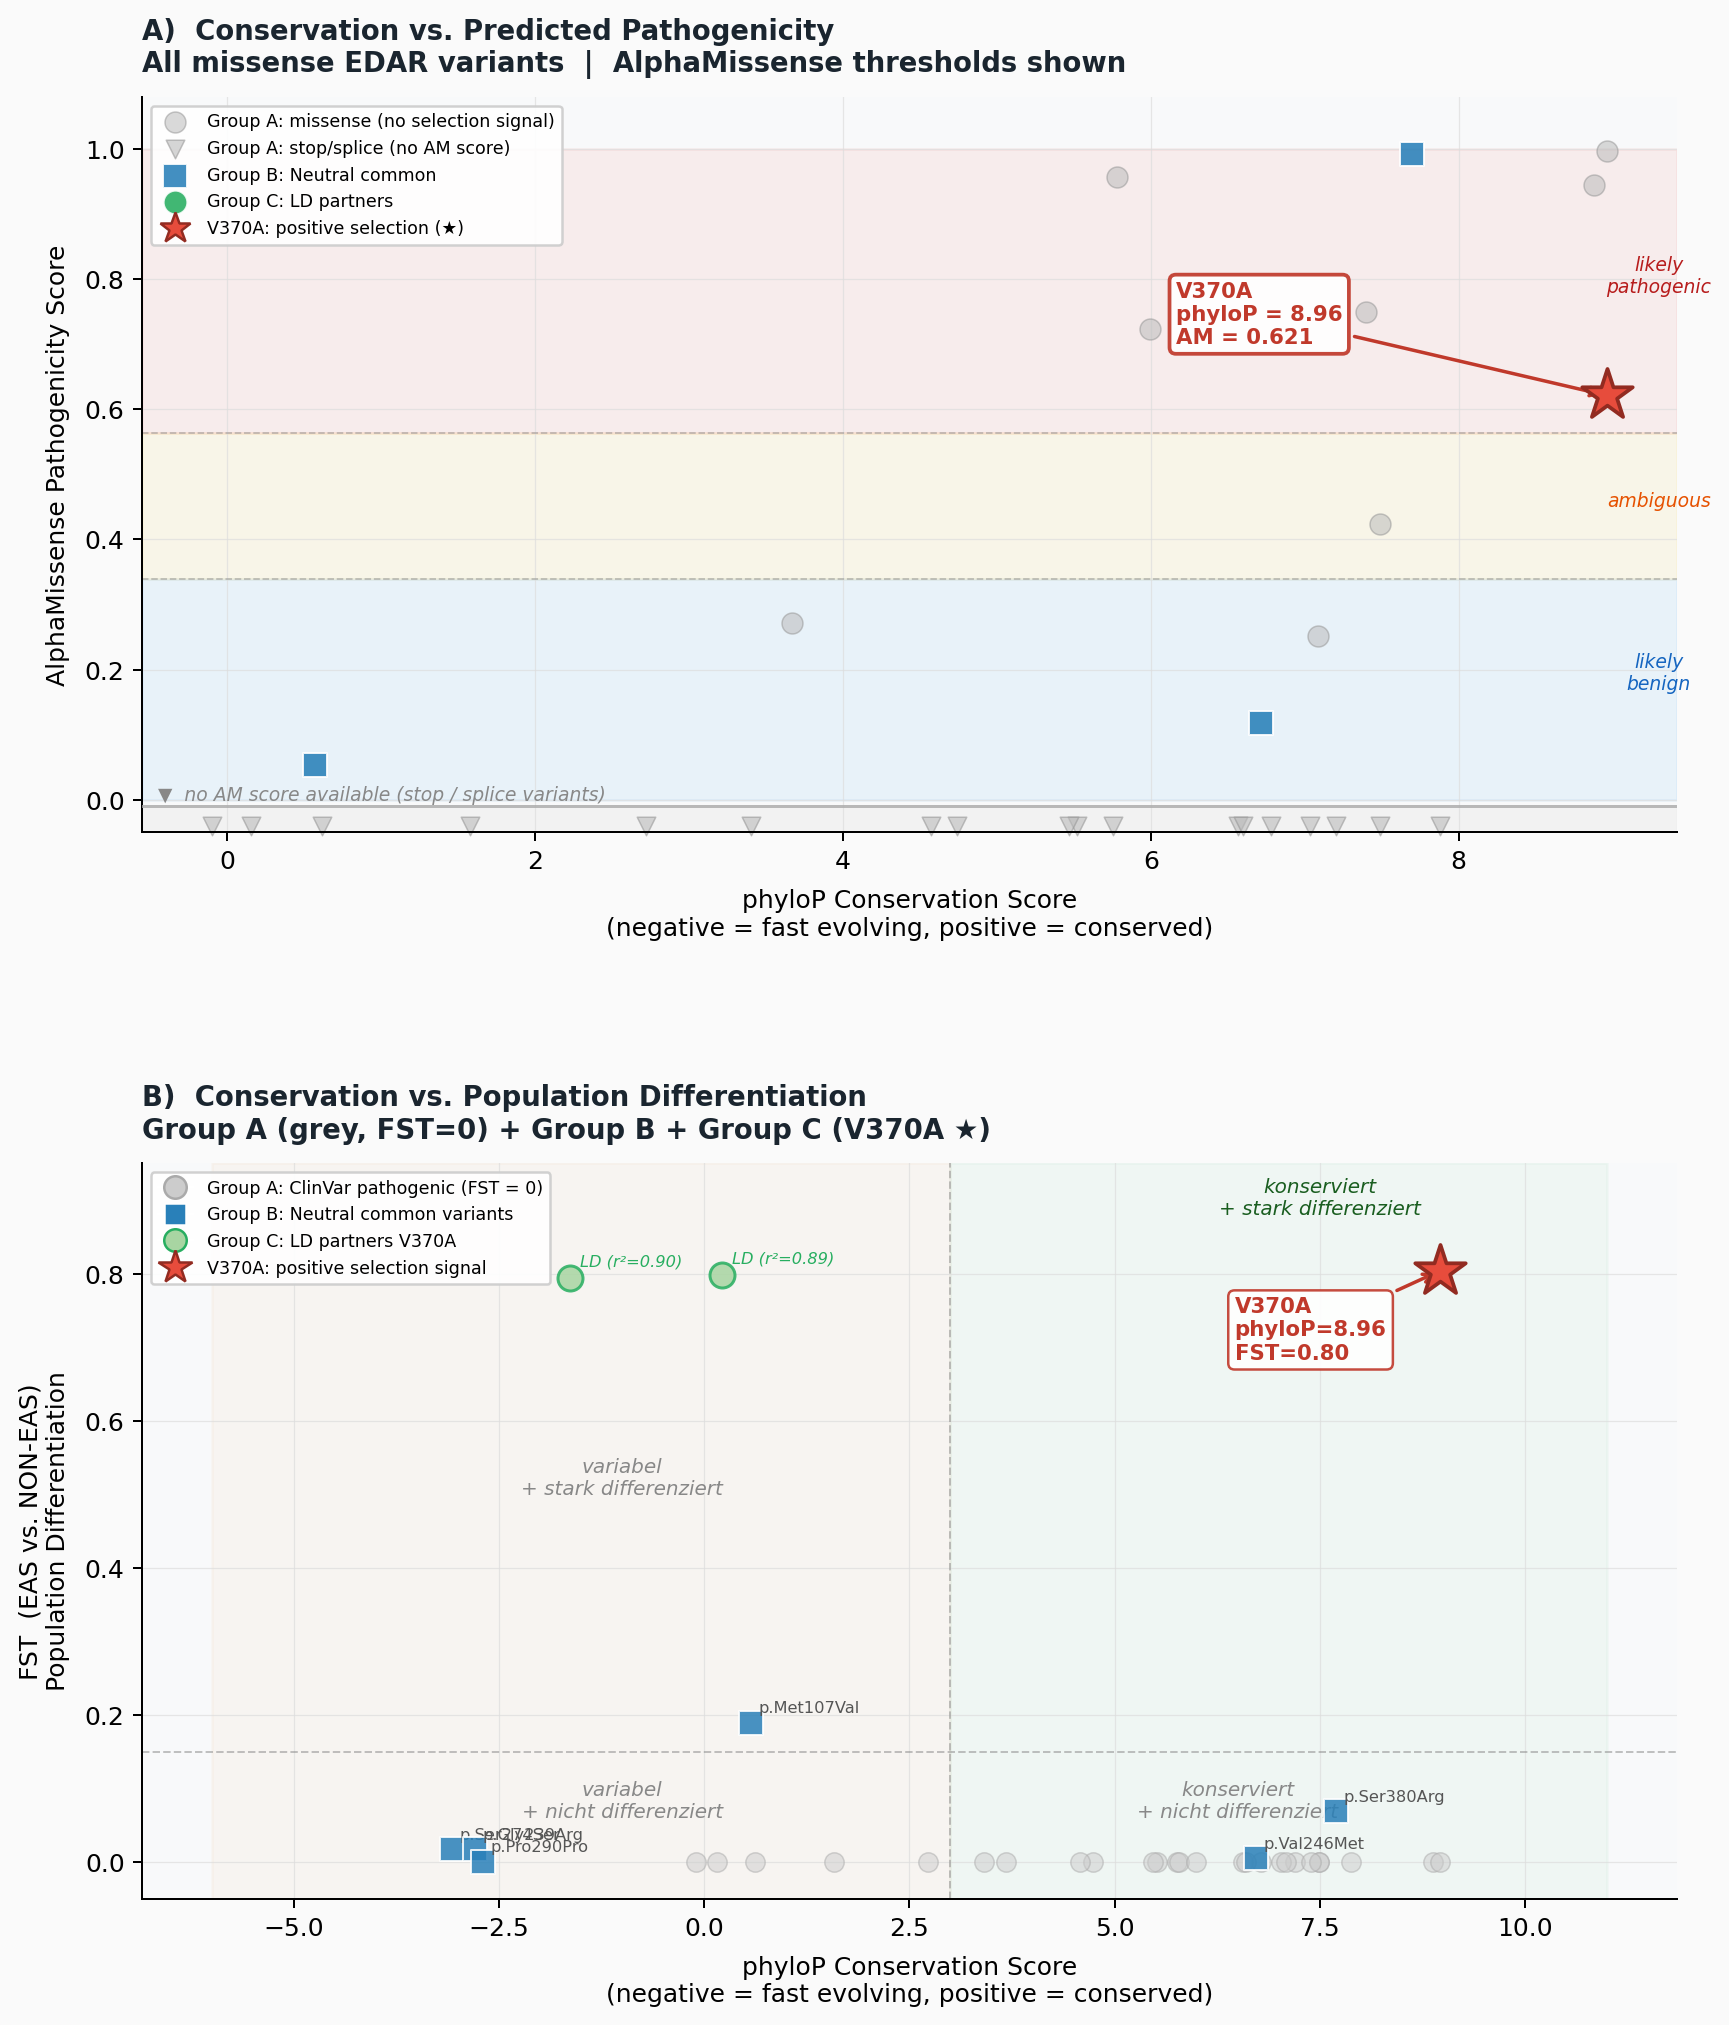
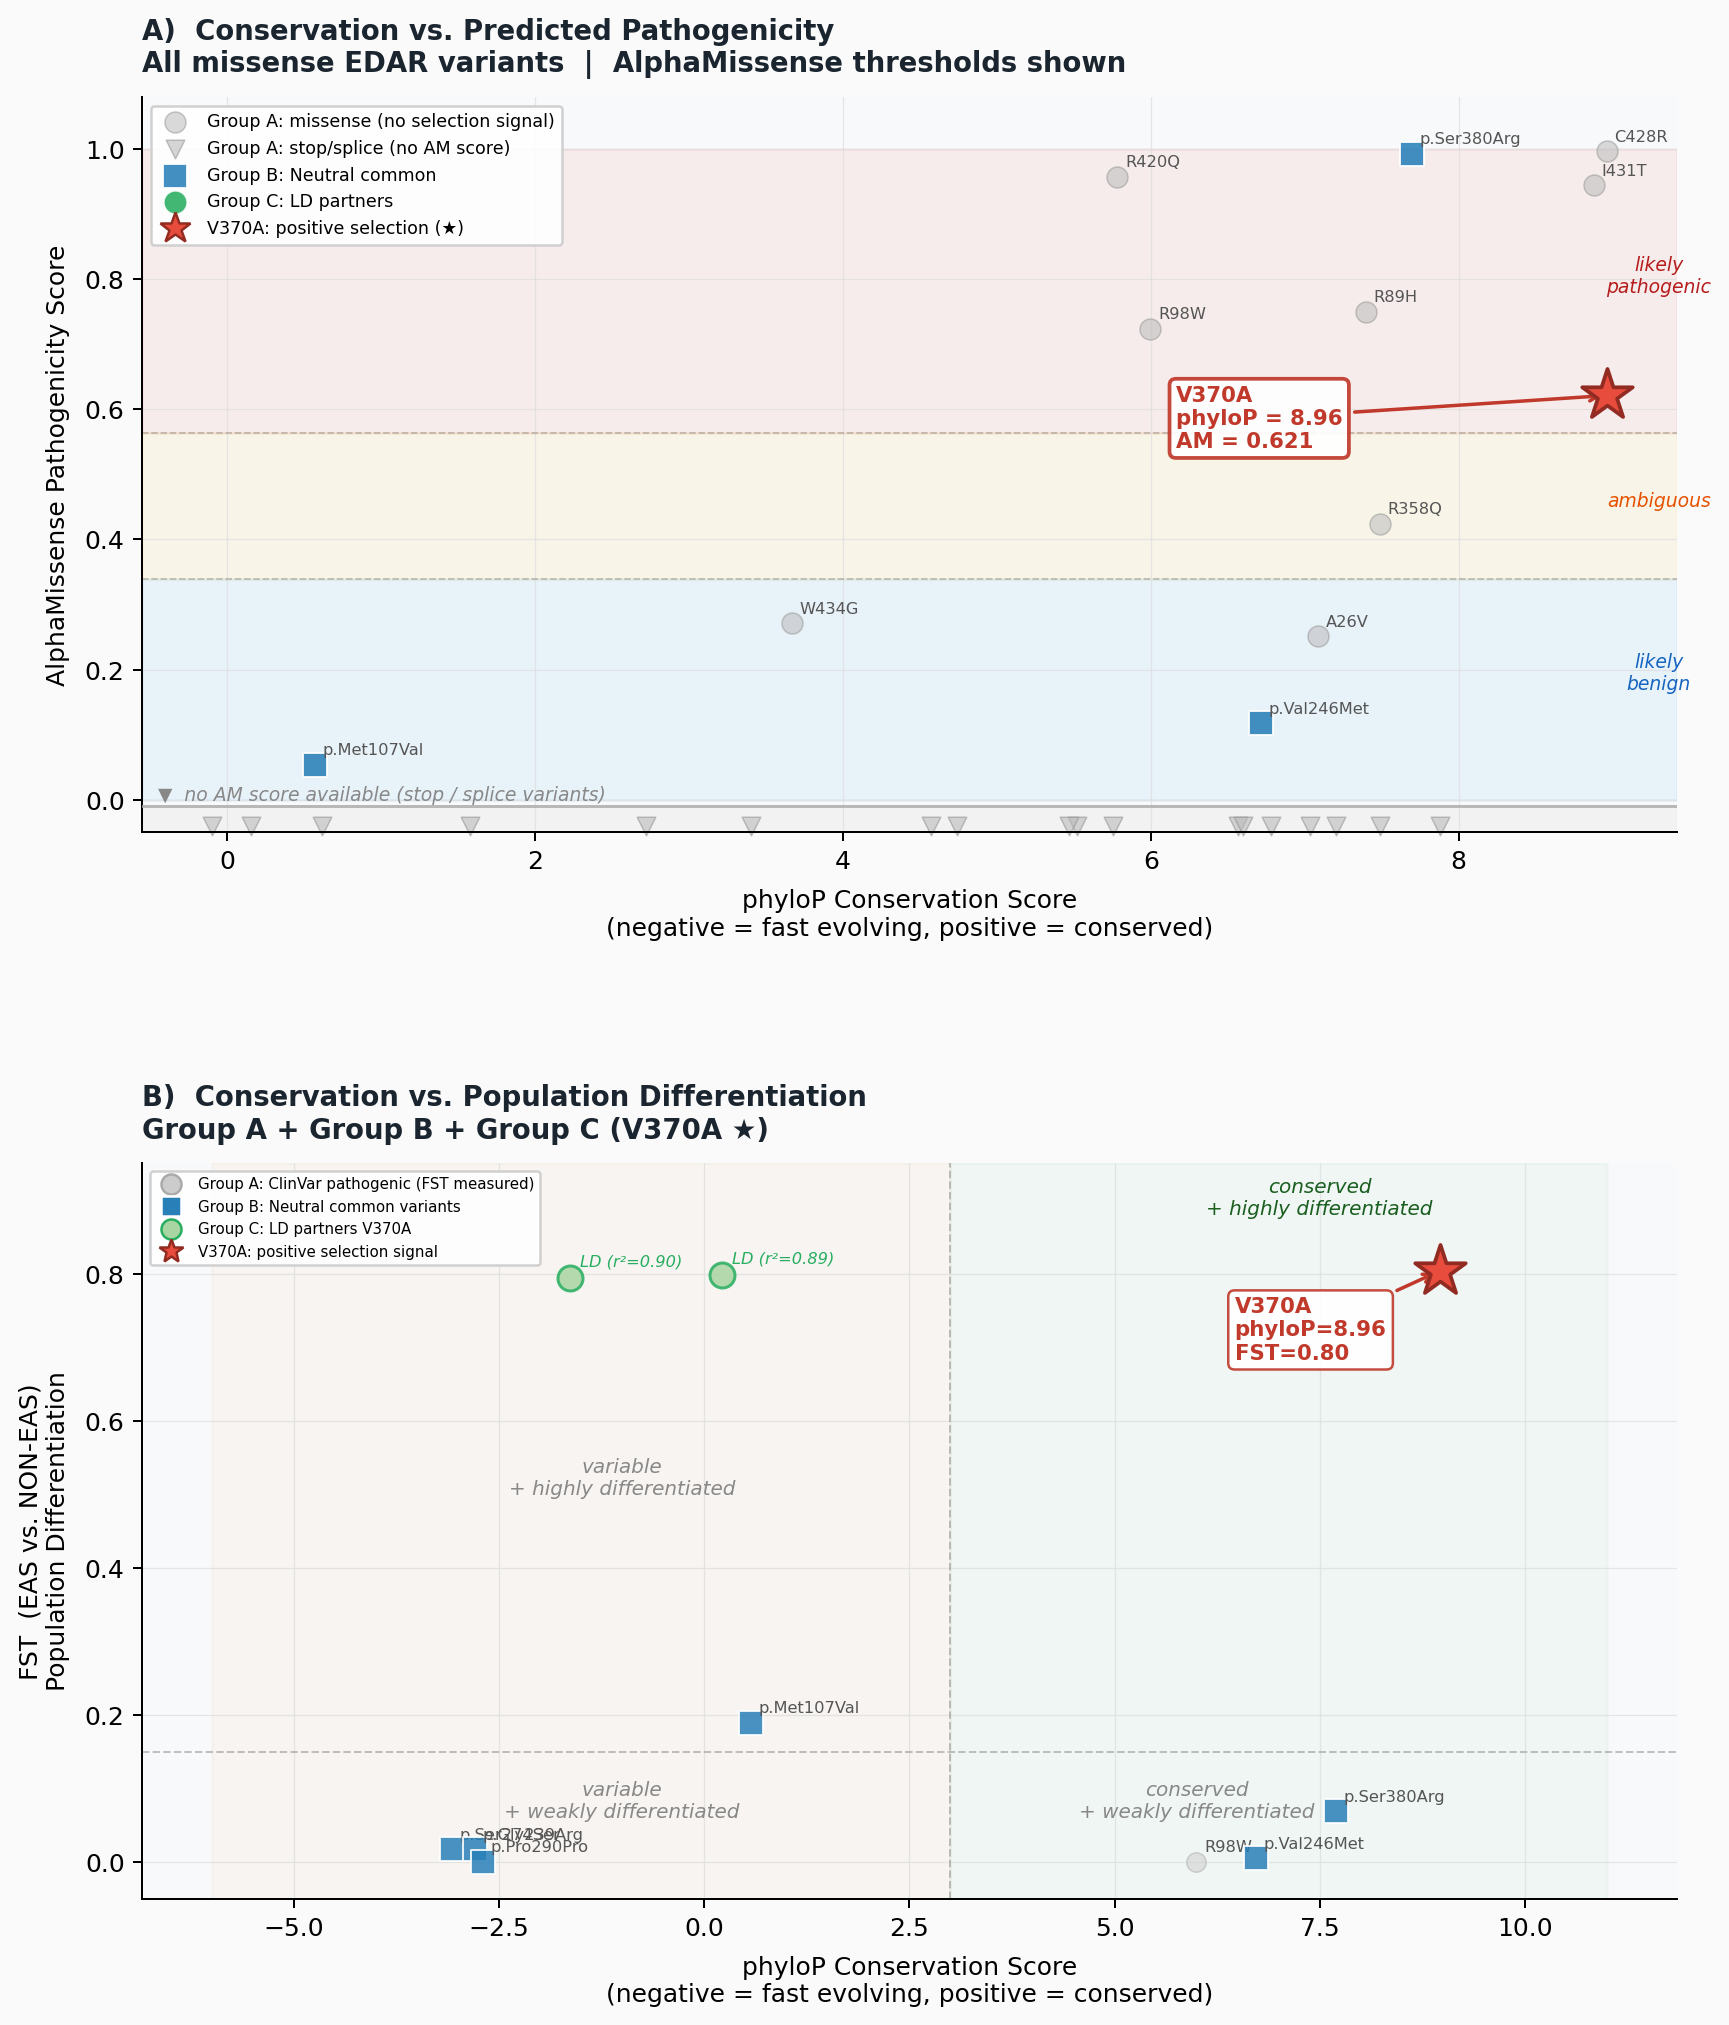
upload data

diff --git a/skripts_outputs/02_population/correlation_plot/correlation_plot.py b/skripts_outputs/02_population/correlation_plot/correlation_plot.py
@@ -1,0 +1,247 @@
+import pandas as pd
+import matplotlib.pyplot as plt
+import matplotlib.lines as mlines
+
+# parse all values needed for the plot
+df = pd.read_csv(
+    r"C:\Users\trann\Dokumente\Sommersemester 26\edar_project\skripts_outputs\02_population\variantset\EDAR_Variant_Set_complete_final.csv")
+df["FST"] = pd.to_numeric(df["FST"], errors="coerce")
+df["phyloP"] = pd.to_numeric(df["phyloP"], errors="coerce")
+df["am_pathogenicity"] = pd.to_numeric(df["am_pathogenicity"], errors="coerce")
+
+# define for groups
+GROUP_STYLE = {"A": dict(color="#C0392B", marker="o", label="Group A: ClinVar pathogenic"),
+               "B": dict(color="#2980B9", marker="s", label="Group B: Neutral common"),
+               "C": dict(color="#27AE60", marker="o", label="Group C: LD partners"), }
+
+# alphamissense threshold
+AM_LIKELY_BENIGN = 0.340
+AM_AMBIGUOUS = 0.564
+
+fig, (ax1, ax2) = plt.subplots(2, 1, figsize=(11, 13), gridspec_kw={"hspace": 0.45})
+fig.patch.set_facecolor("#FAFAFA")
+
+# PLOT PANEL A) phyloP × AlphaMissense
+ax1.set_facecolor("#F8F9FA")
+
+# filter only missense variants with am score
+miss = df[(df["Consequence"] == "missense_variant") & df["phyloP"].notna() &
+          df["am_pathogenicity"].notna()].copy()
+
+# set up for am classifications
+ax1.axhspan(0, AM_LIKELY_BENIGN, alpha=0.07, color="#2196F3", zorder=0, label="_nolegend_")
+ax1.axhspan(AM_LIKELY_BENIGN, AM_AMBIGUOUS, alpha=0.07, color="#FFC107", zorder=0)
+ax1.axhspan(AM_AMBIGUOUS, 1.0, alpha=0.07, color="#F44336", zorder=0)
+
+ax1.text(9.3, 0.17, "likely\nbenign", fontsize=7.5, color="#1565C0", ha="center", style="italic")
+ax1.text(9.3, 0.45, "ambiguous", fontsize=7.5, color="#E65100", ha="center", style="italic")
+ax1.text(9.3, 0.78, "likely\npathogenic", fontsize=7.5, color="#B71C1C", ha="center", style="italic")
+
+ax1.axhline(AM_LIKELY_BENIGN, color="#888", linewidth=0.7, linestyle="--", alpha=0.5)
+ax1.axhline(AM_AMBIGUOUS, color="#888", linewidth=0.7, linestyle="--", alpha=0.5)
+
+# Group A variants
+a_grey = df[(df["Group"] == "A") & (df["Consequence"] == "missense_variant") &
+            df["phyloP"].notna() & df["am_pathogenicity"].notna()]
+
+ax1.scatter(
+    a_grey["phyloP"], a_grey["am_pathogenicity"],
+    c="#BBBBBB", s=70, marker="o",
+    edgecolors="#999999", linewidths=0.6,
+    zorder=2, alpha=0.55,
+    label="Group A: missense (no selection signal)"
+)
+
+for _, row in a_grey.iterrows():
+    ax1.annotate(
+        row["Protein"],
+        (row["phyloP"], row["am_pathogenicity"]),
+        xytext=(3, 4), textcoords="offset points",
+        fontsize=6.5, color="#555",
+    )
+
+# only for comparison, variants without am as triangle
+SEPARATOR_Y = -0.04  # Y-Position der Dreiecke
+FLOOR_Y = -0.01  # Y-Position der Trennlinie
+
+a_stop = df[(df["Group"] == "A") &
+            (df["Consequence"].isin(["stop_gained", "splice_donor_variant", "splice_acceptor_variant"])) &
+            df["phyloP"].notna()]
+
+ax1.scatter(
+    a_stop["phyloP"],
+    [SEPARATOR_Y] * len(a_stop),
+    c="#BBBBBB", s=55, marker="v",
+    edgecolors="#999999", linewidths=0.6,
+    zorder=2, alpha=0.6, clip_on=False,
+    label="Group A: stop/splice (no AM score)"
+)
+
+ax1.axhline(FLOOR_Y, color="#AAAAAA", linewidth=1.2, linestyle="-", alpha=0.8, zorder=5)
+ax1.text(
+    0.01, FLOOR_Y + 0.002,
+    "▼  no AM score available (stop / splice variants)",
+    transform=ax1.get_yaxis_transform(),
+    fontsize=7.5, color="#888888", style="italic", va="bottom"
+)
+
+ax1.axhspan(-0.07, FLOOR_Y, color="#EEEEEE", alpha=0.6, zorder=0)
+ax1.set_ylim(-0.07, 1.08)
+
+# Group B and C
+for grp in ["B", "C"]:
+    style = GROUP_STYLE[grp]
+    sub = miss[miss["Group"] == grp]
+    if len(sub) == 0:
+        continue
+    ax1.scatter(
+        sub["phyloP"], sub["am_pathogenicity"],
+        c=style["color"], s=90, marker=style["marker"],
+        edgecolors="white", linewidths=0.8,
+        zorder=3, alpha=0.88, label=style["label"]
+    )
+    if grp == "B":
+        for _, row in sub.iterrows():
+            ax1.annotate(
+                row["Protein"],
+                (row["phyloP"], row["am_pathogenicity"]),
+                xytext=(3, 4), textcoords="offset points",
+                fontsize=6.5, color="#555"
+            )
+
+# hightlight V370A
+v370a = df[df["rsID"] == "rs3827760"]
+if len(v370a) and v370a.iloc[0]["am_pathogenicity"] > 0:
+    r = v370a.iloc[0]
+    ax1.scatter(r["phyloP"], r["am_pathogenicity"],
+                c="#E74C3C", s=450, marker="*",
+                edgecolors="#922B21", linewidths=1.5, zorder=6)
+    ax1.annotate(
+        f"V370A\nphyloP = {r['phyloP']:.2f}\nAM = {r['am_pathogenicity']:.3f}",
+        xy=(r["phyloP"], r["am_pathogenicity"]),
+        xytext=(r["phyloP"] - 2.8, r["am_pathogenicity"] - 0.08),
+        fontsize=8.5, fontweight="bold", color="#C0392B",
+        arrowprops=dict(arrowstyle="->", color="#C0392B", lw=1.4),
+        bbox=dict(boxstyle="round,pad=0.3", facecolor="white",
+                  edgecolor="#C0392B", alpha=0.92, linewidth=1.5)
+    )
+
+ax1.set_xlabel("phyloP Conservation Score\n(negative = fast evolving, positive = conserved)", fontsize=10, labelpad=6)
+ax1.set_ylabel("AlphaMissense Pathogenicity Score", fontsize=10, labelpad=6)
+ax1.set_title("A)  Conservation vs. Predicted Pathogenicity\n"
+              "All missense EDAR variants  |  AlphaMissense thresholds shown",
+              fontsize=11, fontweight="bold", color="#1A252F", pad=10, loc="left")
+ax1.set_ylim(-0.05, 1.08)
+ax1.spines[["top", "right"]].set_visible(False)
+ax1.grid(color="#DDDDDD", linewidth=0.5, alpha=0.7)
+handles, labels = ax1.get_legend_handles_labels()
+v370a_handle = mlines.Line2D([0], [0], marker="*", color="w", markersize=13,
+                             markerfacecolor="#E74C3C", markeredgecolor="#922B21",
+                             label="V370A: positive selection (★)")
+handles.append(v370a_handle)
+labels.append("V370A: positive selection (★)")
+ax1.legend(handles=handles, labels=labels, fontsize=7, framealpha=0.9, fancybox=True,
+           edgecolor="#CCC", loc="upper left")
+
+# PLOT PANEL B) FST × phyloP (only variants with estimated FST values)
+ax2.set_facecolor("#F8F9FA")
+bc = df[df["Group"].isin(["B", "C"]) & df["phyloP"].notna()].copy()
+
+# check in Group A, if there is a variant with an FST estimate
+a_hasFST = df[(df["Group"] == "A") & df["FST"].notna() & df["phyloP"].notna()].copy()
+
+ax2.scatter(
+    a_hasFST["phyloP"], a_hasFST["FST"],
+    c="#CCCCCC", s=60, marker="o",
+    edgecolors="#AAAAAA", linewidths=0.6,
+    zorder=2, alpha=0.5,
+    label="Group A: ClinVar pathogenic"
+)
+
+for _, row in a_hasFST.iterrows():
+    ax2.annotate(row["Protein"] if pd.notna(row["Protein"]) else "",
+                 xy=(row["phyloP"], row["FST"]),
+                 xytext=(3, 4), textcoords="offset points",
+                 fontsize=6.5, color="#555"
+                 )
+
+# Quadranten
+ax2.axvspan(-6, 3, alpha=0.04, color="#E67E22", zorder=0)  # variabel
+ax2.axvspan(3, 11, alpha=0.04, color="#27AE60", zorder=0)  # konserviert
+ax2.axhline(0.15, color="#888", linewidth=0.8, linestyle="--", alpha=0.5)
+ax2.axvline(3.0, color="#888", linewidth=0.8, linestyle="--", alpha=0.5)
+
+ax2.text(7.5, 0.88, "conserved\n+ highly differentiated", fontsize=8, color="#1A5E20", ha="center", style="italic")
+ax2.text(-1, 0.5, "variable\n+ highly differentiated", fontsize=8, color="#888", ha="center", style="italic")
+ax2.text(6, 0.06, "conserved\n+ weakly differentiated", fontsize=8, color="#888", ha="center", style="italic")
+ax2.text(-1, 0.06, "variable\n+ weakly differentiated", fontsize=8, color="#888", ha="center", style="italic")
+
+# Group B
+b = bc[bc["Group"] == "B"]
+for _, row in b.iterrows():
+    color = "#2980B9" if pd.isna(row["am_pathogenicity"]) else "#2980B9"
+    ax2.scatter(row["phyloP"], row["FST"],
+                c=color, s=90, marker="s",
+                edgecolors="white", linewidths=0.8,
+                zorder=3, alpha=0.85)
+    ax2.annotate(row["Protein"] if pd.notna(row["Protein"]) else "",
+                 xy=(row["phyloP"], row["FST"]),
+                 xytext=(3, 4), textcoords="offset points",
+                 fontsize=6.5, color="#555")
+
+# Group C LD-Partner
+ld = bc[(bc["Group"] == "C") & (bc["rsID"] != "rs3827760")]
+if len(ld):
+    ax2.scatter(ld["phyloP"], ld["FST"],
+                c="#A8D5A2", s=100, marker="o",
+                edgecolors="#27AE60", linewidths=1.2,
+                zorder=4, alpha=0.85, label="Group C — LD partners")
+    for _, row in ld.iterrows():
+        ax2.annotate(
+            f"LD (r²={row['r2_V370A']:.2f})" if pd.notna(row.get('r2_V370A')) else "LD partner",
+            xy=(row["phyloP"], row["FST"]),
+            xytext=(4, 5), textcoords="offset points",
+            fontsize=6.5, color="#27AE60", style="italic"
+        )
+
+# V370A Stern
+if len(v370a):
+    r = v370a.iloc[0]
+    ax2.scatter(r["phyloP"], r["FST"], c="#E74C3C", s=450, marker="*",
+                edgecolors="#922B21", linewidths=1.5, zorder=6)
+    ax2.annotate(
+        "V370A\nphyloP=8.96\nFST=0.80",
+        xy=(r["phyloP"], r["FST"]),
+        xytext=(r["phyloP"] - 2.5, r["FST"] - 0.12),
+        fontsize=8.5, fontweight="bold", color="#C0392B",
+        arrowprops=dict(arrowstyle="->", color="#C0392B", lw=1.4),
+        bbox=dict(boxstyle="round,pad=0.3", facecolor="white",
+                  edgecolor="#C0392B", alpha=0.9)
+    )
+
+ax2.set_xlabel("phyloP Conservation Score\n(negative = fast evolving, positive = conserved)", fontsize=10, labelpad=6)
+ax2.set_ylabel("FST  (EAS vs. NON-EAS)\nPopulation Differentiation", fontsize=10, labelpad=6)
+ax2.set_title("B)  Conservation vs. Population Differentiation\n"
+              "Group A + Group B + Group C (V370A ★)",
+              fontsize=11, fontweight="bold", color="#1A252F", pad=10, loc="left")
+ax2.set_ylim(-0.05, 0.95)
+ax2.spines[["top", "right"]].set_visible(False)
+ax2.grid(color="#DDDDDD", linewidth=0.5, alpha=0.7)
+
+leg2 = [mlines.Line2D([0], [0], marker="o", color="w", markersize=8,
+                      markerfacecolor="#CCCCCC", markeredgecolor="#AAAAAA",
+                      label="Group A: ClinVar pathogenic (FST measured)"),
+        mlines.Line2D([0], [0], marker="s", color="w", markersize=8,
+                      markerfacecolor="#2980B9", markeredgecolor="white",
+                      label="Group B: Neutral common variants"),
+        mlines.Line2D([0], [0], marker="o", color="w", markersize=8,
+                      markerfacecolor="#A8D5A2", markeredgecolor="#27AE60",
+                      label="Group C: LD partners V370A"),
+        mlines.Line2D([0], [0], marker="*", color="w", markersize=10,
+                      markerfacecolor="#E74C3C", markeredgecolor="#922B21",
+                      label="V370A: positive selection signal"), ]
+
+ax2.legend(handles=leg2, fontsize=6, framealpha=0.9, fancybox=True, edgecolor="#CCC", loc="upper left")
+
+plt.savefig("Two_Correlation_Plots_v7.png", dpi=180, bbox_inches="tight")
+print("\nSaved.")
